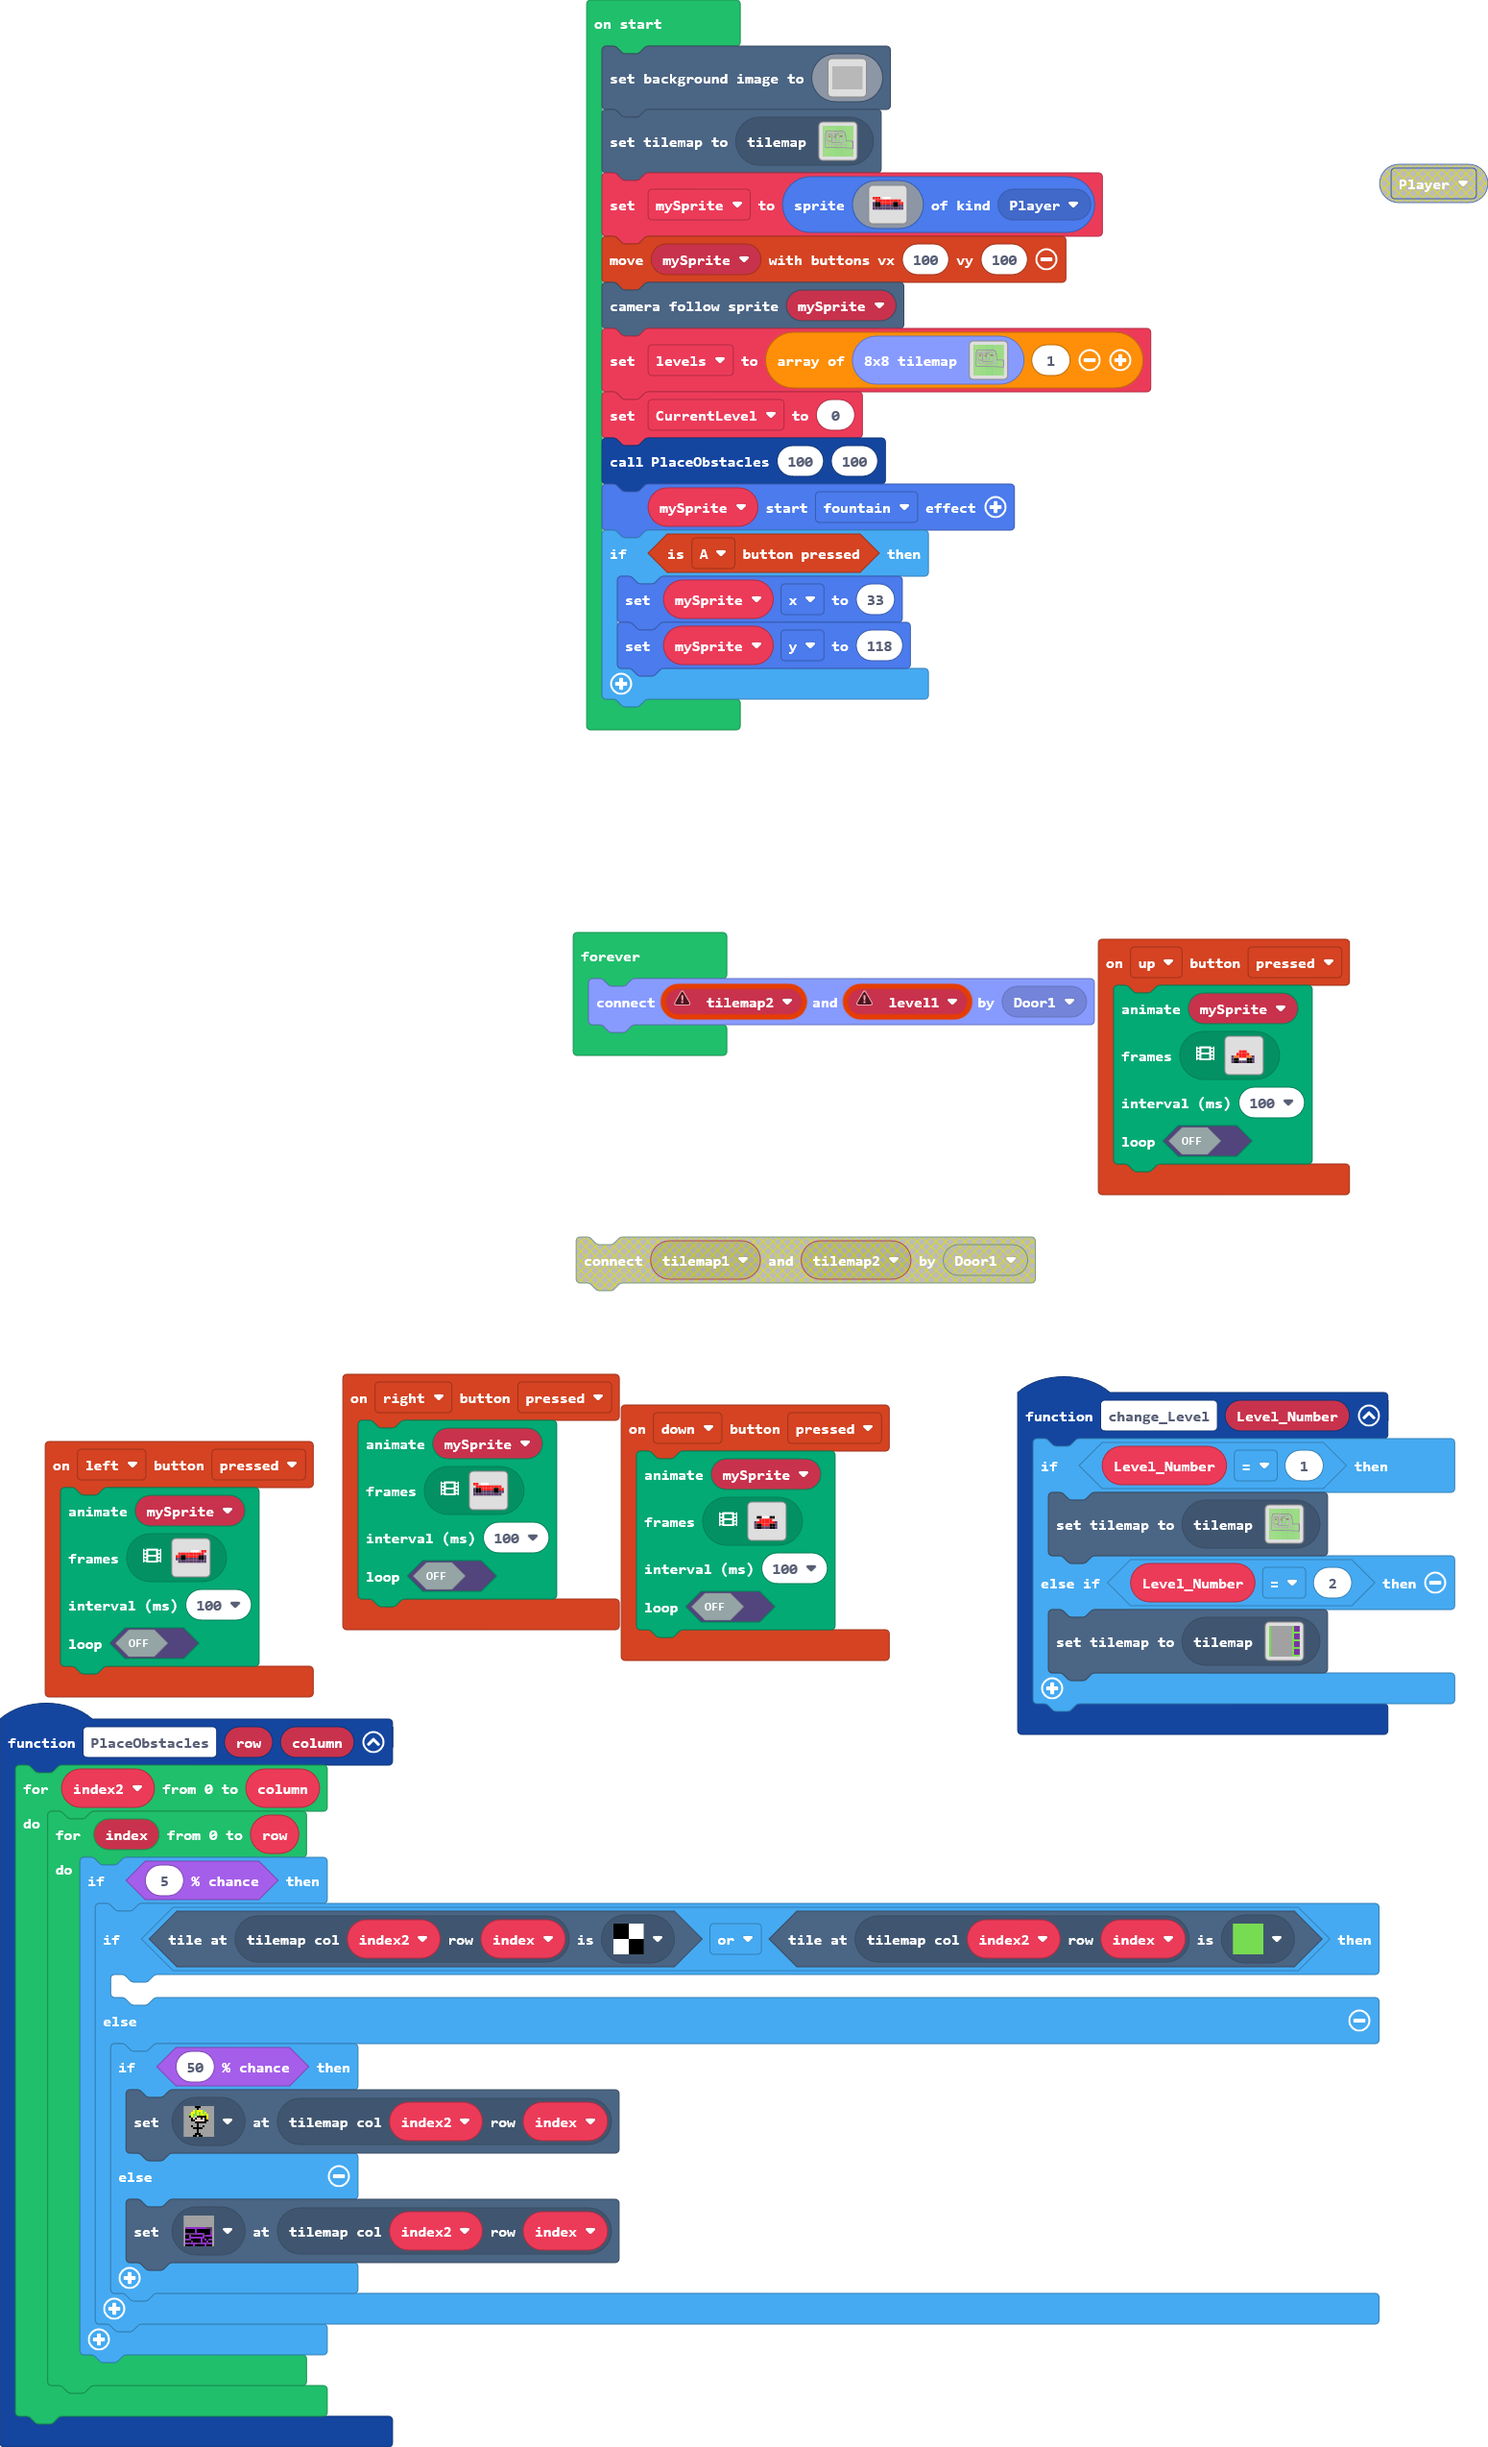
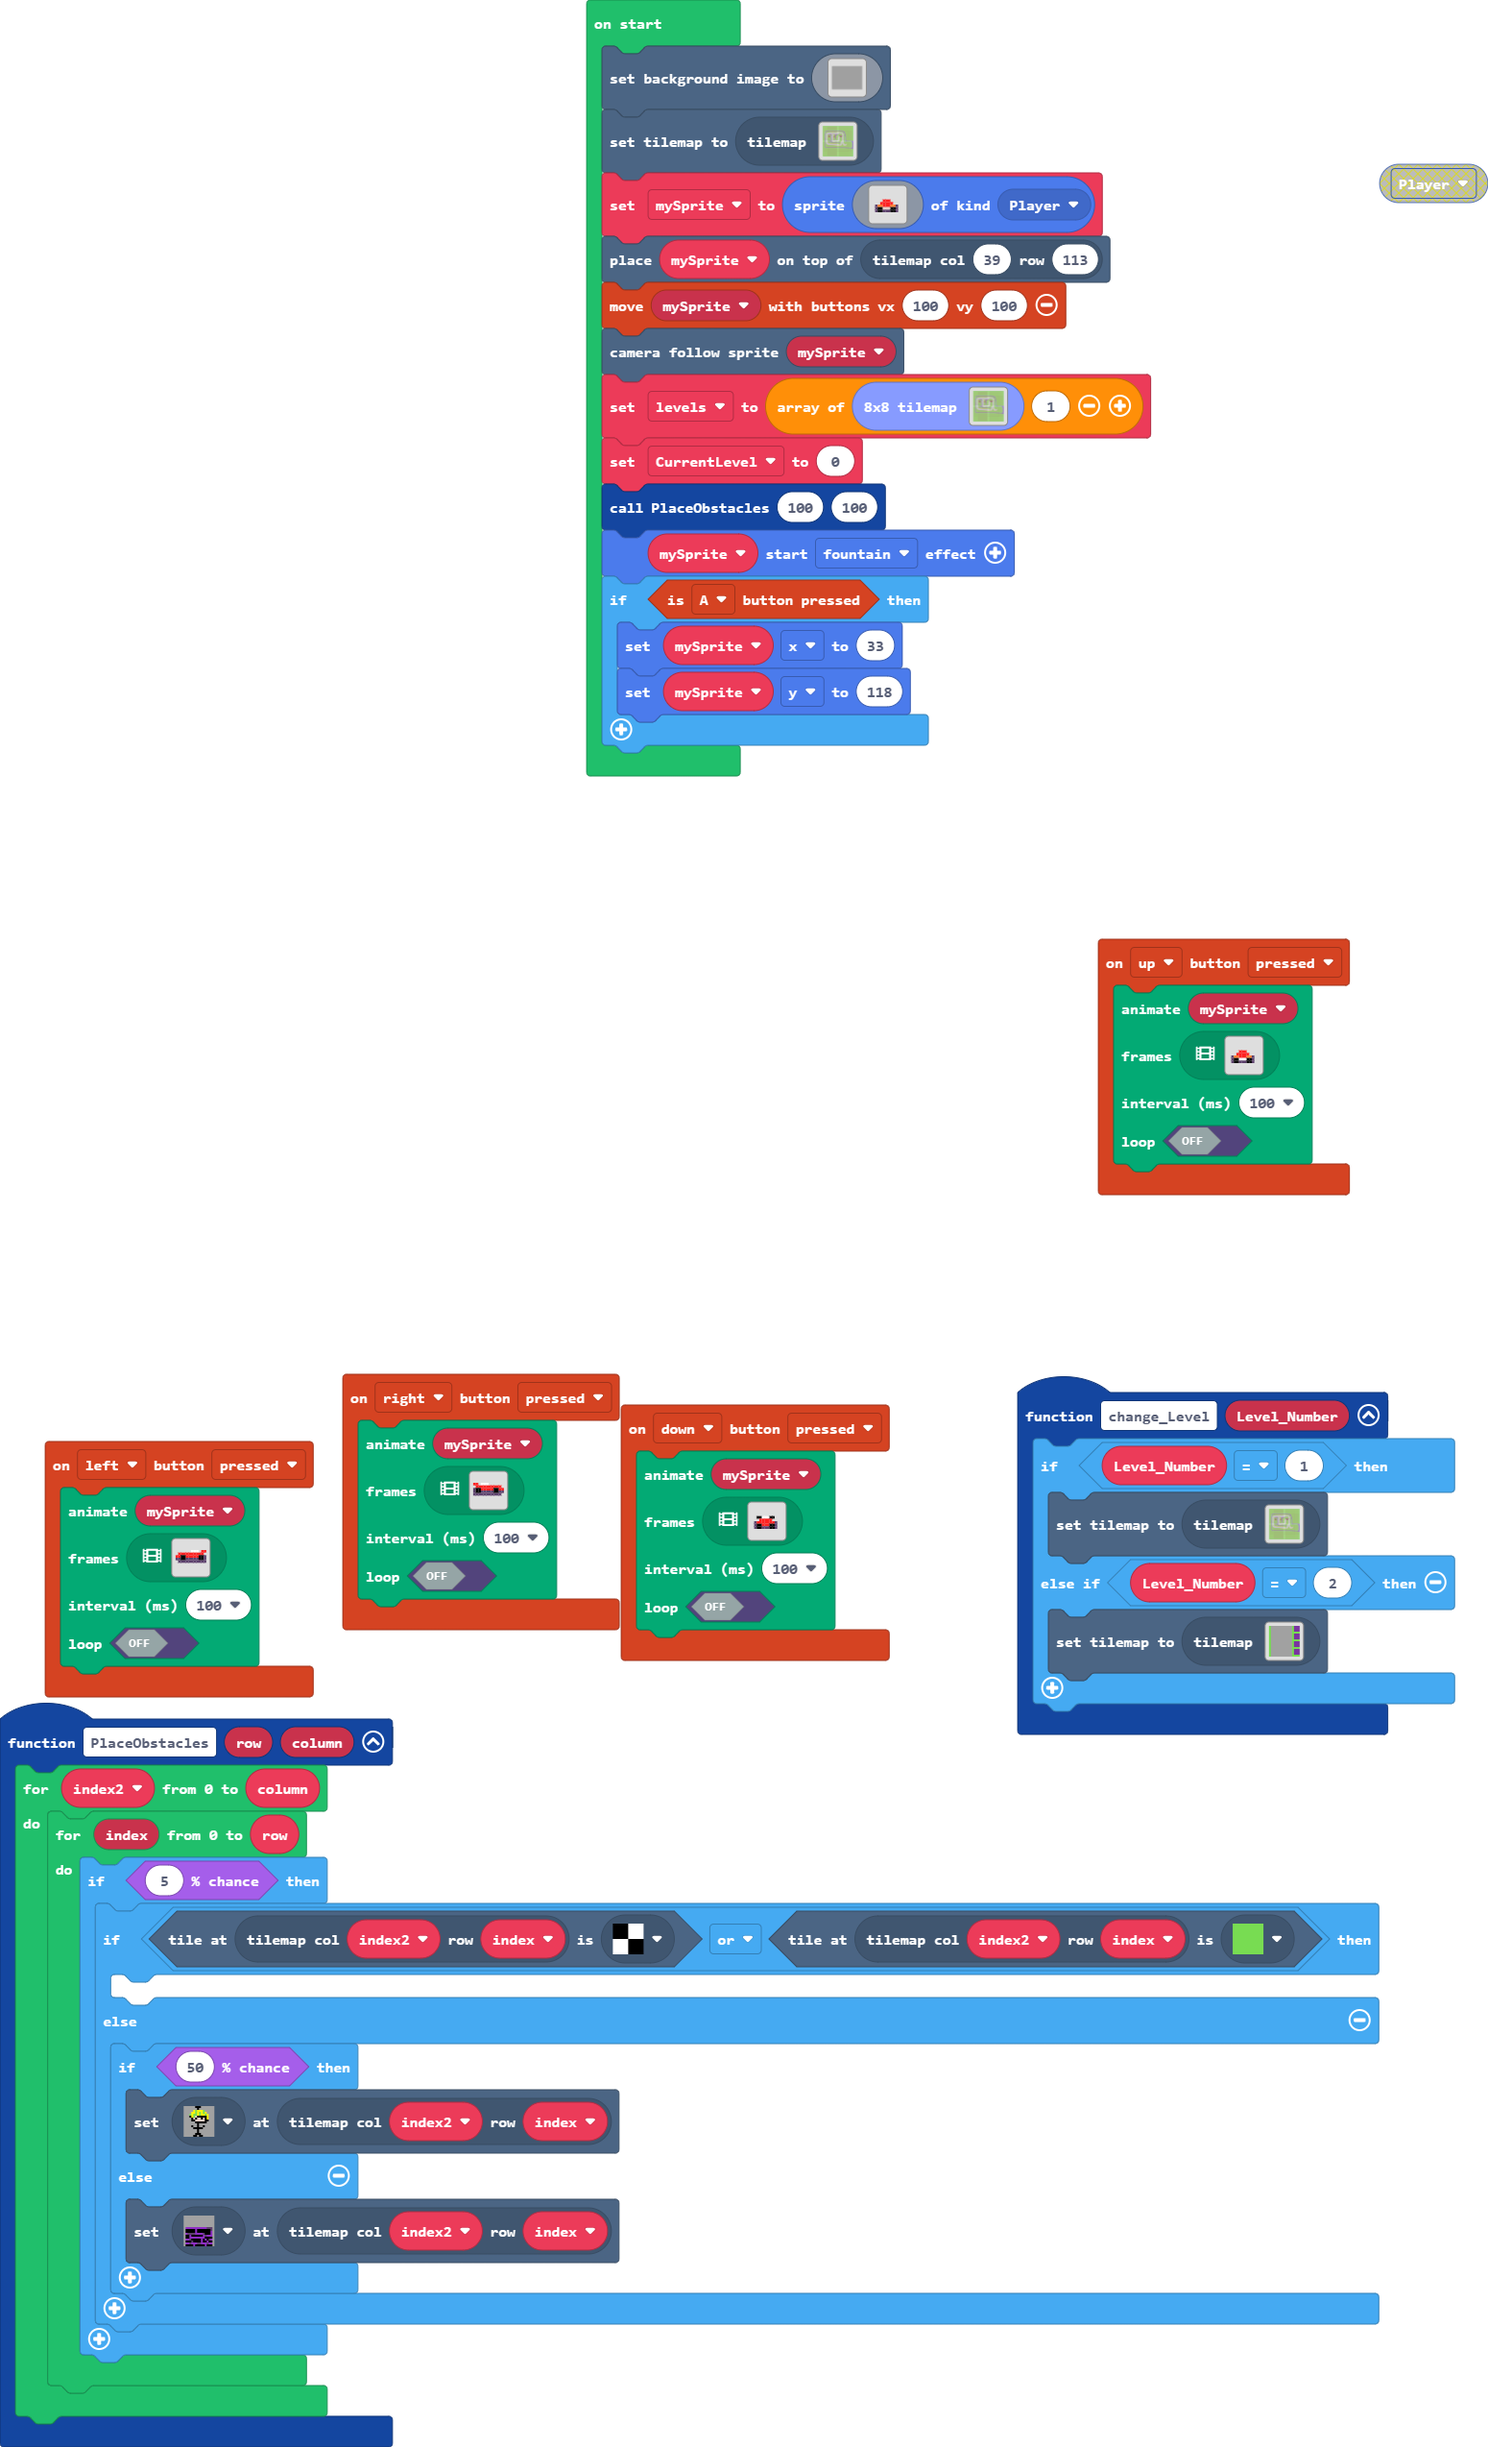
Update main.blocks, main.ts

diff --git a/main.ts b/main.ts
@@ -207,13 +207,14 @@ scene.setBackgroundImage(img`
     `)
 tiles.setCurrentTilemap(tilemap`starfin`)
 mySprite = sprites.create(img`
-    2 2 2 . 1 1 1 . . . . . 
-    . 2 2 2 2 2 2 2 2 2 2 . 
-    c f f 2 2 2 2 2 f f 2 2 
-    c f f c c c c c f f c c 
-    c c c c c c c c c c c c 
     . . . . . . . . . . . . 
+    . . . . 2 2 2 . . . . . 
+    . . . 2 2 2 2 2 . . . . 
+    . c 4 4 2 2 2 4 4 c . . 
+    . c f f d d d f f c . . 
+    . c f f c c c f f c . . 
     `, SpriteKind.Player)
+tiles.placeOnTile(mySprite, tiles.getTileLocation(39, 113))
 controller.moveSprite(mySprite, 100, 100)
 scene.cameraFollowSprite(mySprite)
 let levels = [tileUtil.createSmallMap(tilemap`starfin`), 1]
@@ -224,8 +225,3 @@ if (controller.A.isPressed()) {
     mySprite.x = 33
     mySprite.y = 118
 }
-forever(function () {
-    let level1: tiles.TileMapData = null
-    let tilemap2: tiles.TileMapData = null
-    tileUtil.connectMaps(tilemap2, level1, MapConnectionKind.Door1)
-})
